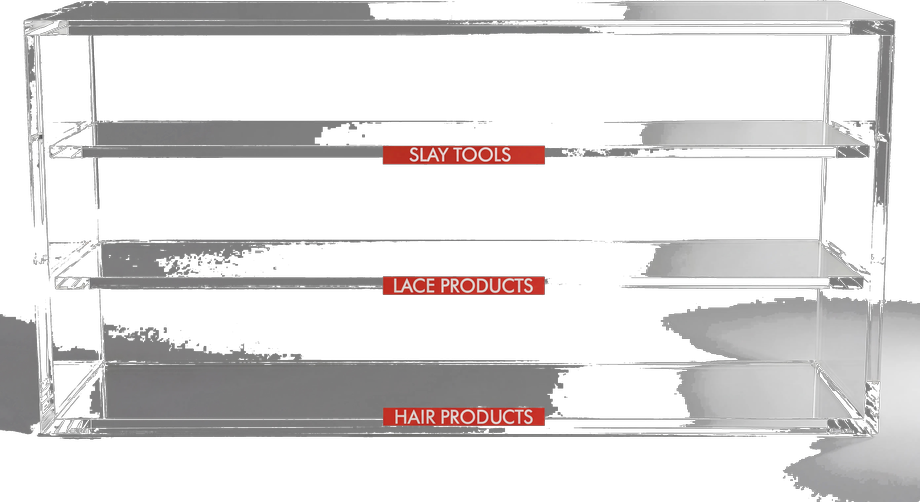
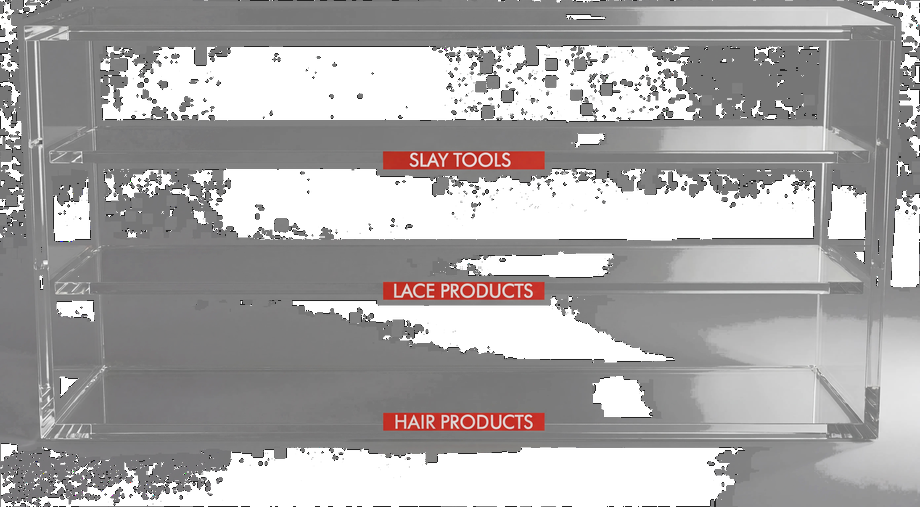
Fix lobby display case studio key: preserve acrylic, rebake CASE.png

diff --git a/src/constants/lobbyCaseAssets.ts b/src/constants/lobbyCaseAssets.ts
@@ -4,7 +4,7 @@
  */
 
 /** Display-case acrylic (`CASE.png`) — `npm run lobby:bake-case`. */
-export const LOBBY_CASE_ASSET_VERSION = '3YeN5RF8-v1';
+export const LOBBY_CASE_ASSET_VERSION = '3YeN5RF8-v2';
 
 export const LOBBY_CASE_SRC_REMOTE =
   'https://hyycomvcaqxxvyrfupes.supabase.co/storage/v1/object/public/live-preview/LP%20Images/3YeN5RF86itqbtBCkkFFk_HK9jI53s.jpeg';

diff --git a/scripts/lobby-chroma-key.py b/scripts/lobby-chroma-key.py
@@ -5,7 +5,7 @@ from __future__ import annotations
 import sys
 
 import numpy as np
-from PIL import Image
+from PIL import Image, ImageFilter
 
 
 def _ge(r: np.ndarray, g: np.ndarray, b: np.ndarray) -> np.ndarray:
@@ -139,8 +139,106 @@ def key_greenscreen(im: Image.Image, shelf_acrylic_band: bool) -> Image.Image:
     return Image.fromarray(arr)
 
 
+def _case_subject_hull(alpha_u8: np.ndarray) -> np.ndarray:
+    """Expand solid subject seeds so backdrop-colored acrylic stays inside the hull."""
+    seeds = alpha_u8 >= 200
+    if not np.any(seeds):
+        seeds = alpha_u8 >= 128
+    if not np.any(seeds):
+        return seeds
+    mask_im = Image.fromarray((seeds.astype(np.uint8) * 255))
+    for _ in range(10):
+        mask_im = mask_im.filter(ImageFilter.MaxFilter(7))
+    return np.array(mask_im) > 96
+
+
+def _fill_alpha_holes(arr: np.ndarray, min_neighbor_alpha: int = 200) -> None:
+    """Close 1–2px pinholes in alpha without growing the outer silhouette much."""
+    a = arr[:, :, 3]
+    hole = (a < 48) & (
+        (np.roll(a, 1, 0) >= min_neighbor_alpha)
+        | (np.roll(a, -1, 0) >= min_neighbor_alpha)
+        | (np.roll(a, 1, 1) >= min_neighbor_alpha)
+        | (np.roll(a, -1, 1) >= min_neighbor_alpha)
+    )
+    arr[hole, 3] = 220
+
+
+def solidify_case_glass(
+    arr: np.ndarray,
+    dist_bg: np.ndarray,
+    sat: np.ndarray,
+    lum: np.ndarray,
+    r: np.ndarray,
+    g: np.ndarray,
+) -> None:
+    """Display case acrylic reads near gray backdrop — keep panels solid, glass slightly soft."""
+    glass = (dist_bg > 14) & (sat < 56) & (lum > 58) & (lum < 232)
+    panels = glass & (dist_bg > 20)
+    arr[panels, 3] = np.maximum(arr[panels, 3], 210)
+    frame = (dist_bg > 46) | (lum < 94)
+    arr[frame, 3] = np.maximum(arr[frame, 3], 248)
+    neon = (r > 112) & (r > g + 10) & (sat > 38)
+    arr[neon, 3] = 255
+
+
+def key_studio_case(im: Image.Image) -> Image.Image:
+    """Gray cyclorama display case — acrylic is backdrop-colored; avoid fringe wipe on glass."""
+    arr = np.array(im.convert('RGBA'))
+    r = arr[:, :, 0].astype(np.float32)
+    g = arr[:, :, 1].astype(np.float32)
+    b = arr[:, :, 2].astype(np.float32)
+    mx = np.max(arr[:, :, :3], axis=2).astype(np.float32)
+    mn = np.min(arr[:, :, :3], axis=2).astype(np.float32)
+    sat = mx - mn
+    lum = 0.2126 * r + 0.7152 * g + 0.0722 * b
+    bg = _corner_bg(r, g, b)
+    dist_bg = np.sqrt((r - bg[0]) ** 2 + (g - bg[1]) ** 2 + (b - bg[2]) ** 2)
+
+    alpha = _smoothstep(18.0, 46.0, dist_bg)
+    alpha[dist_bg < 15.0] = 0.0
+
+    subject = (dist_bg > 52) | (lum < 88) | ((sat > 36) & (dist_bg > 26))
+    alpha = np.where(subject, np.maximum(alpha, 0.96), alpha)
+
+    # Acrylic / neutral panels (similar RGB to backdrop — must not be fringe-wiped).
+    glass = (dist_bg > 14) & (sat < 54) & (lum > 60) & (lum < 230)
+    alpha[glass] = np.maximum(alpha[glass], 0.78)
+
+    arr[:, :, 3] = (np.clip(alpha, 0.0, 1.0) * 255.0).astype(np.uint8)
+
+    fg = alpha > 0.06
+    rb_max = np.maximum(r, b)
+    despill = fg & (g > rb_max + 2) & (lum < 155)
+    g_fix = np.where(g > rb_max, rb_max + (g - rb_max) * 0.08, g)
+    arr[:, :, 1] = np.where(despill, np.clip(g_fix, 0, 255), arr[:, :, 1]).astype(np.uint8)
+
+    unspill_foreground(arr)
+    solidify_case_glass(arr, dist_bg, sat, lum, r, g)
+
+    hull = _case_subject_hull(arr[:, :, 3])
+    in_hull = hull & (dist_bg > 10)
+    arr[in_hull, 3] = np.maximum(arr[in_hull, 3], 200)
+    glass_in_hull = hull & (sat < 58) & (lum > 55)
+    arr[glass_in_hull, 3] = np.maximum(arr[glass_in_hull, 3], 225)
+    _fill_alpha_holes(arr)
+
+    alpha_f = arr[:, :, 3].astype(np.float32) / 255.0
+    # Only drop pixels that are clearly backdrop — not low-dist acrylic.
+    fringe = (alpha_f < 0.10) & (dist_bg < 16) & ~hull
+    arr[fringe, 3] = 0
+    arr[fringe, :3] = 0
+
+    a_norm = arr[:, :, 3].astype(np.float32) / 255.0
+    arr[:, :, :3] = np.clip(arr[:, :, :3] * a_norm[..., np.newaxis], 0, 255).astype(np.uint8)
+    return Image.fromarray(arr)
+
+
 def key_studio_backdrop(im: Image.Image, shelf_acrylic_band: bool) -> Image.Image:
     """Gray / neutral cyclorama — distance key from corner backdrop (not green excess)."""
+    if not shelf_acrylic_band:
+        return key_studio_case(im)
+
     arr = np.array(im.convert('RGBA'))
     r = arr[:, :, 0].astype(np.float32)
     g = arr[:, :, 1].astype(np.float32)
@@ -158,10 +256,6 @@ def key_studio_backdrop(im: Image.Image, shelf_acrylic_band: bool) -> Image.Imag
     subject = (dist_bg > 58) | (lum < 90) | ((sat > 40) & (dist_bg > 32))
     alpha = np.where(subject, np.maximum(alpha, 0.92), alpha)
 
-    case_core = (dist_bg > 42) & (lum < 210)
-    alpha[case_core] = np.maximum(alpha[case_core], 0.98)
-
-    # Only boost acrylic / neon on foreground pixels — not neutral backdrop.
     fg_zone = dist_bg > 30
     protect = fg_zone & (
         ((sat < 32) & (lum > 100) & (lum < 220))
@@ -197,7 +291,22 @@ def key_studio_backdrop(im: Image.Image, shelf_acrylic_band: bool) -> Image.Imag
 def post_resize_cleanup(out_im: Image.Image, shelf_acrylic_band: bool) -> Image.Image:
     arr = np.array(out_im)
     unspill_foreground(arr)
-    drop_green_haze(arr, shelf_acrylic_band)
+    if shelf_acrylic_band:
+        drop_green_haze(arr, shelf_acrylic_band)
+    else:
+        r = arr[:, :, 0].astype(np.float32)
+        g = arr[:, :, 1].astype(np.float32)
+        b = arr[:, :, 2].astype(np.float32)
+        mx = np.max(arr[:, :, :3], axis=2).astype(np.float32)
+        mn = np.min(arr[:, :, :3], axis=2).astype(np.float32)
+        sat = mx - mn
+        lum = 0.2126 * r + 0.7152 * g + 0.0722 * b
+        fg = arr[:, :, 3] > 80
+        glass = fg & (sat < 56) & (lum > 58) & (lum < 232)
+        arr[glass, 3] = np.maximum(arr[glass, 3], 215)
+        frame = fg & (lum < 96)
+        arr[frame, 3] = np.maximum(arr[frame, 3], 248)
+        _fill_alpha_holes(arr)
     a_norm = arr[:, :, 3].astype(np.float32) / 255.0
     arr[:, :, :3] = np.clip(arr[:, :, :3] * a_norm[..., np.newaxis], 0, 255).astype(np.uint8)
     return Image.fromarray(arr)
